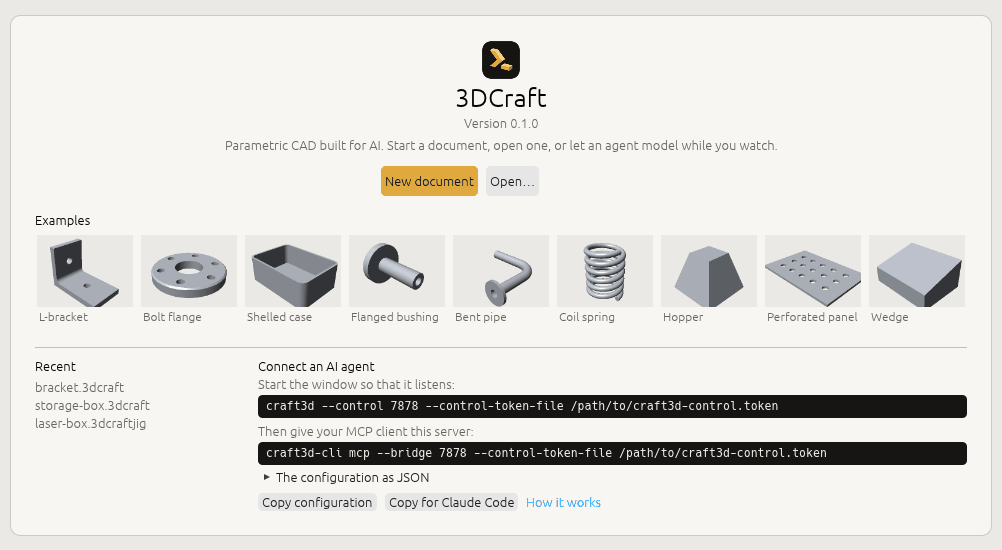
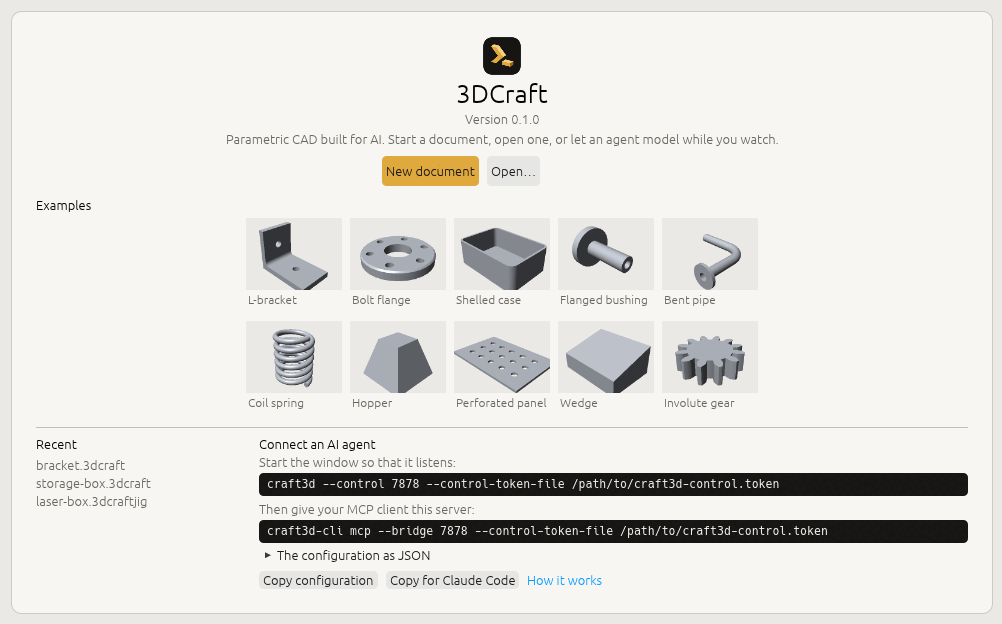
Start screen: the gear example too, ten cards in two rows of five in both layouts
The compact layout (below 760 points of room) put every example in one
row; with ten it now lays them out five to a row like the roomy one, with
less space between the card's parts, so the card still fits without
scrolling at 1024 x 700. The guide's start-screen picture shows all ten.

diff --git a/crates/ui-egui/src/shell/start.rs b/crates/ui-egui/src/shell/start.rs
@@ -46,7 +46,7 @@ macro_rules! example {
 }
 
 /// The guide's examples, in the order its README lists them.
-pub const EXAMPLES: [Example; 9] = [
+pub const EXAMPLES: [Example; 10] = [
     example!("bracket", "L-bracket", "extrude, fillet, holes"),
     example!("flange", "Bolt flange", "pattern, boolean, chamfer"),
     example!("case", "Shelled case", "fillet, shell"),
@@ -56,6 +56,7 @@ pub const EXAMPLES: [Example; 9] = [
     example!("hopper", "Hopper", "loft"),
     example!("panel", "Perforated panel", "sketch pattern"),
     example!("wedge", "Wedge", "datums, fill, intersect"),
+    example!("gear", "Involute gear", "curves from formulas, pattern"),
 ];
 
 /// The logo: the application's icon (`packaging/icons`).
@@ -287,9 +288,9 @@ pub(crate) struct StartMemory {
 
 /// How the card is laid out for the room the window gives it: roomy
 /// (a large logo, large thumbnails five to a row) or, below
-/// [`ROOMY_HEIGHT`], compact (a smaller logo, small thumbnails all in one
-/// row where the width allows), so it fits without scrolling down to
-/// 1024 × 700 and 1366 × 768.
+/// [`ROOMY_HEIGHT`], compact (a smaller logo, small thumbnails, also five
+/// to a row: two rows for the ten examples), so it fits without scrolling
+/// down to 1024 × 700 and 1366 × 768.
 #[derive(Clone, Copy, Debug, PartialEq)]
 pub struct StartLayout {
     /// The card's width, in points.
@@ -297,6 +298,9 @@ pub struct StartLayout {
     pub logo: f32,
     pub thumb: egui::Vec2,
     pub per_row: usize,
+    /// The space between the card's parts, in units of `Tokens::inset`
+    /// (less in the compact layout).
+    pub spacing: f32,
 }
 
 /// The least height (of the room for the card, in points) for the roomy
@@ -312,13 +316,15 @@ impl StartLayout {
                 logo: 64.0,
                 thumb: egui::vec2(128.0, 96.0),
                 per_row: 5,
+                spacing: 1.0,
             }
         } else {
             Self {
                 width: size.x.min(980.0),
                 logo: 40.0,
                 thumb: egui::vec2(96.0, 72.0),
-                per_row: EXAMPLES.len(),
+                per_row: 5,
+                spacing: 0.6,
             }
         }
     }
@@ -424,6 +430,8 @@ impl Shell {
         if self.start.pictures.is_none() {
             self.start.pictures = Some(Pictures::load(ui.ctx()));
         }
+        // Less space between the parts in the compact layout.
+        let space = tokens.inset * self.start.layout.map_or(1.0, |l| l.spacing);
         card.show(ui, |ui| {
             ui.set_width(width - 48.0);
             ui.vertical_centered(|ui| {
@@ -434,12 +442,12 @@ impl Shell {
                 }
                 ui.label(egui::RichText::new(super::PRODUCT).size(26.0).strong());
                 ui.colored_label(dim, format!("Version {}", super::help::VERSION));
-                ui.add_space(tokens.inset * 0.4);
+                ui.add_space(space * 0.4);
                 ui.colored_label(
                     dim,
                     "Parametric CAD built for AI. Start a document, open one, or let an agent model while you watch.",
                 );
-                ui.add_space(tokens.inset);
+                ui.add_space(space);
                 // Centred: the two buttons laid out in a row of their own width.
                 let size = egui::vec2(0.0, 30.0);
                 let gold = egui::Button::new(
@@ -466,13 +474,13 @@ impl Shell {
                     },
                 );
             });
-            ui.add_space(tokens.inset * 1.4);
+            ui.add_space(space * 1.4);
             ui.label(egui::RichText::new("Examples").strong());
-            ui.add_space(tokens.inset * 0.4);
+            ui.add_space(space * 0.4);
             self.example_grid(ui);
-            ui.add_space(tokens.inset * 1.4);
+            ui.add_space(space * 1.4);
             ui.separator();
-            ui.add_space(tokens.inset * 0.6);
+            ui.add_space(space * 0.6);
             let left = 200.0_f32.min(ui.available_width() * 0.3);
             ui.horizontal_top(|ui| {
                 ui.allocate_ui_with_layout(
@@ -505,7 +513,11 @@ impl Shell {
             .layout
             .unwrap_or_else(|| StartLayout::for_room(egui::vec2(760.0, ROOMY_HEIGHT)));
         let thumb = layout.thumb;
-        let gap = if layout.per_row > 5 { gap * 0.8 } else { gap };
+        let gap = if layout.thumb.x < 110.0 {
+            gap * 0.8
+        } else {
+            gap
+        };
         let label_height = 20.0;
         let card = egui::vec2(thumb.x, thumb.y + label_height);
         let per_row = {
@@ -710,9 +722,12 @@ mod tests {
             egui::vec2(984.0, 616.0),
         ] {
             let compact = StartLayout::for_room(room);
-            assert_eq!(compact.per_row, EXAMPLES.len());
+            // Two rows of five for the ten examples.
+            assert_eq!(compact.per_row, 5);
+            assert_eq!(EXAMPLES.len().div_ceil(compact.per_row), 2);
             assert!(compact.width <= room.x);
             assert!(compact.thumb.y < roomy.thumb.y && compact.logo < roomy.logo);
+            assert!(compact.spacing < roomy.spacing);
         }
     }
 

diff --git a/crates/ui-egui/tests/help_start.rs b/crates/ui-egui/tests/help_start.rs
@@ -47,20 +47,26 @@ fn rooted(dir: &std::path::Path) -> Session {
 struct Window {
     ctx: egui::Context,
     time: f64,
+    size: egui::Vec2,
 }
 
 impl Window {
     fn new() -> Self {
+        Self::sized(1100.0, 760.0)
+    }
+
+    fn sized(width: f32, height: f32) -> Self {
         Self {
             ctx: egui::Context::default(),
             time: 0.0,
+            size: vec2(width, height),
         }
     }
 
     fn frame(&mut self, shell: &mut Shell, session: &mut Session, events: Vec<Event>) {
         self.time += 1.0 / 60.0;
         let input = egui::RawInput {
-            screen_rect: Some(egui::Rect::from_min_size(Pos2::ZERO, vec2(1100.0, 760.0))),
+            screen_rect: Some(egui::Rect::from_min_size(Pos2::ZERO, self.size)),
             time: Some(self.time),
             events,
             ..Default::default()
@@ -180,6 +186,43 @@ fn the_start_screen_is_up_while_no_document_is_open() {
     run(&mut session, "file.close", json!({"discard": true}));
     window.frame(&mut shell, &mut session, Vec::new());
     assert!(shell.start_shown());
+}
+
+#[test]
+fn all_ten_examples_fit_on_the_start_screen_at_common_window_sizes() {
+    assert_eq!(EXAMPLES.len(), 10);
+    for (width, height) in [
+        (1024.0, 700.0),
+        (1280.0, 800.0),
+        (1366.0, 768.0),
+        (1600.0, 1000.0),
+    ] {
+        let mut session = Session::new(Workspace::none());
+        let mut shell = Shell::new();
+        let mut window = Window::sized(width, height);
+        for _ in 0..3 {
+            window.frame(&mut shell, &mut session, Vec::new());
+        }
+        let viewport = shell.viewport_rect().unwrap();
+        let cards: Vec<egui::Rect> = shell
+            .start_hits()
+            .iter()
+            .filter(|(name, _)| name.starts_with("example:"))
+            .map(|(_, rect)| *rect)
+            .collect();
+        assert_eq!(cards.len(), 10, "{width} x {height}");
+        // Two rows of five, every card inside the viewport: nothing to
+        // scroll to.
+        let mut rows: Vec<f32> = cards.iter().map(|r| r.top().round()).collect();
+        rows.dedup();
+        assert_eq!(rows.len(), 2, "{width} x {height}: rows at {rows:?}");
+        for card in &cards {
+            assert!(
+                viewport.contains_rect(*card),
+                "{width} x {height}: card {card:?} outside {viewport:?}"
+            );
+        }
+    }
 }
 
 #[test]

diff --git a/docs/guide/README.md b/docs/guide/README.md
@@ -60,7 +60,7 @@ numbers yourself.
 - [15. Reference](15-reference.md): every command by family, the MCP tools, keys and mouse, units and
   functions, the command-line programs.
 - [Example models](../examples/README.md): ten small parts (a bracket, a flange, a gear, …), each a script
-  with a picture that checks its own volume. The window's start screen builds most of them with one click.
+  with a picture that checks its own volume. The window's start screen builds all ten with one click.
 - [The Jigs collection](https://github.com/johancoppens/3dcraft-jigs): Jigs to download and use.
 
 ## Words used in this guide
